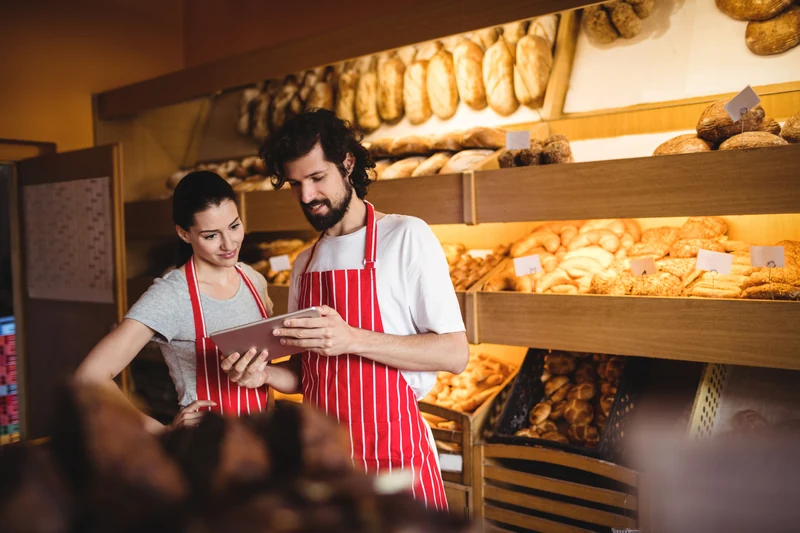
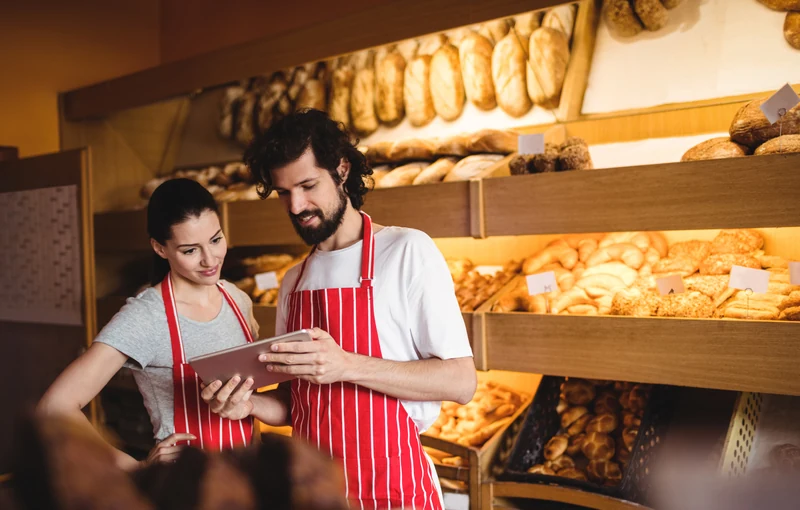
Mise à jour formulaire CSM sans carte avec clé Web3Forms

diff --git a/contact.html b/contact.html
@@ -4,7 +4,7 @@
   <meta charset="UTF-8" />
   <meta name="viewport" content="width=device-width, initial-scale=1.0" />
   <title>Contact | CSM Ingredients France</title>
-  <link rel="stylesheet" href="css/contact-form.css?v=prod-65" />
+  <link rel="stylesheet" href="css/contact-form.css?v=prod-66" />
       <style>
     /* Vue Desktop : Tout tient dans la hauteur de l'écran (100vh).
        ZÉRO double scroll de la page : tout est visible directement. */
@@ -157,7 +157,7 @@
   <script type="module">
     if (window.location.protocol === 'file:') throw new Error('Utilisez un serveur local pour tester');
 
-    import { ContactForm } from './js/form.js?v=prod-65';
+    import { ContactForm } from './js/form.js?v=prod-66';
 
     async function bootstrap() {
       const configRes = await fetch('data/form-config.json', { cache: 'no-store' }).catch(() => null);

diff --git a/css/contact-form.css b/css/contact-form.css
@@ -707,7 +707,7 @@ label.csm-intent-card.csm-intent-card--visual input,
 
 .csm-intent-card--visual[data-intent="contact_commercial"] .csm-intent-card__img,
 .csm-intent-card--contact_commercial .csm-intent-card__img {
-  object-position: center 18% !important;
+  object-position: center 10% !important;
 }
 
 .csm-intent-card--visual .csm-intent-card__media-badge {

diff --git a/js/form.js b/js/form.js
@@ -2149,7 +2149,7 @@ export class ContactForm {
   }
 
   getIntentImage(intentId) {
-    const v = '?v=prod-65';
+    const v = '?v=prod-66';
     const map = {
       contact_commercial: 'assets/intent-commercial.webp' + v,
       conseil_produit: 'assets/intent-produit.webp' + v,
